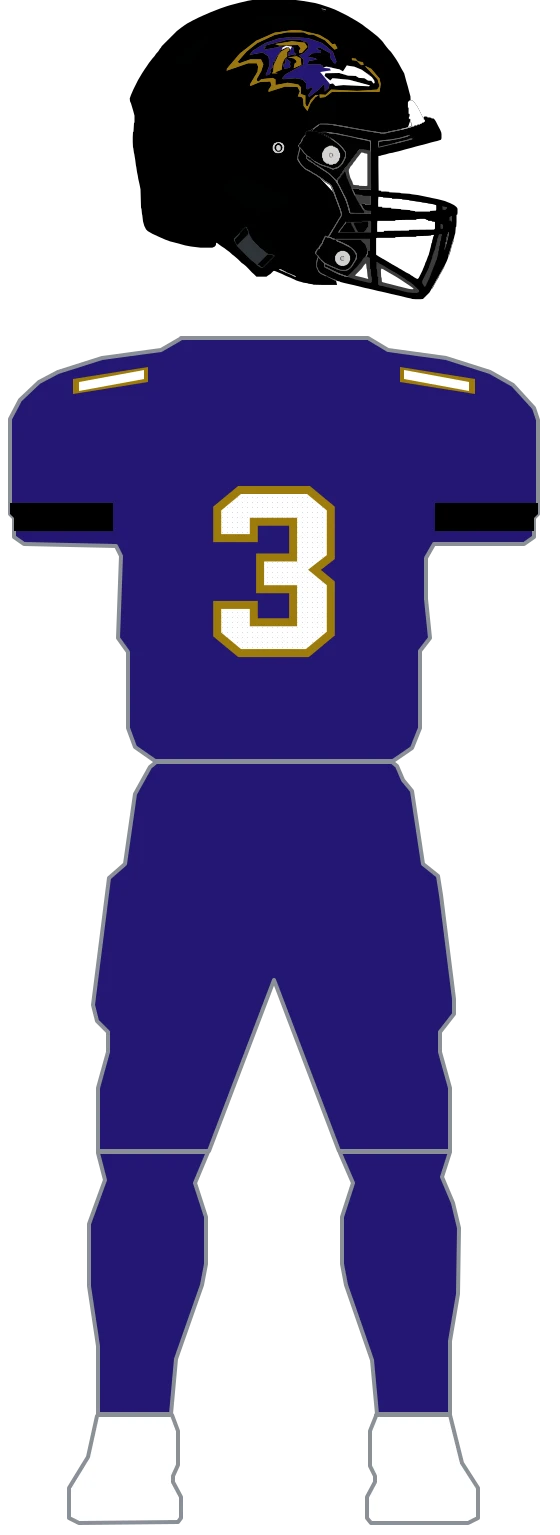
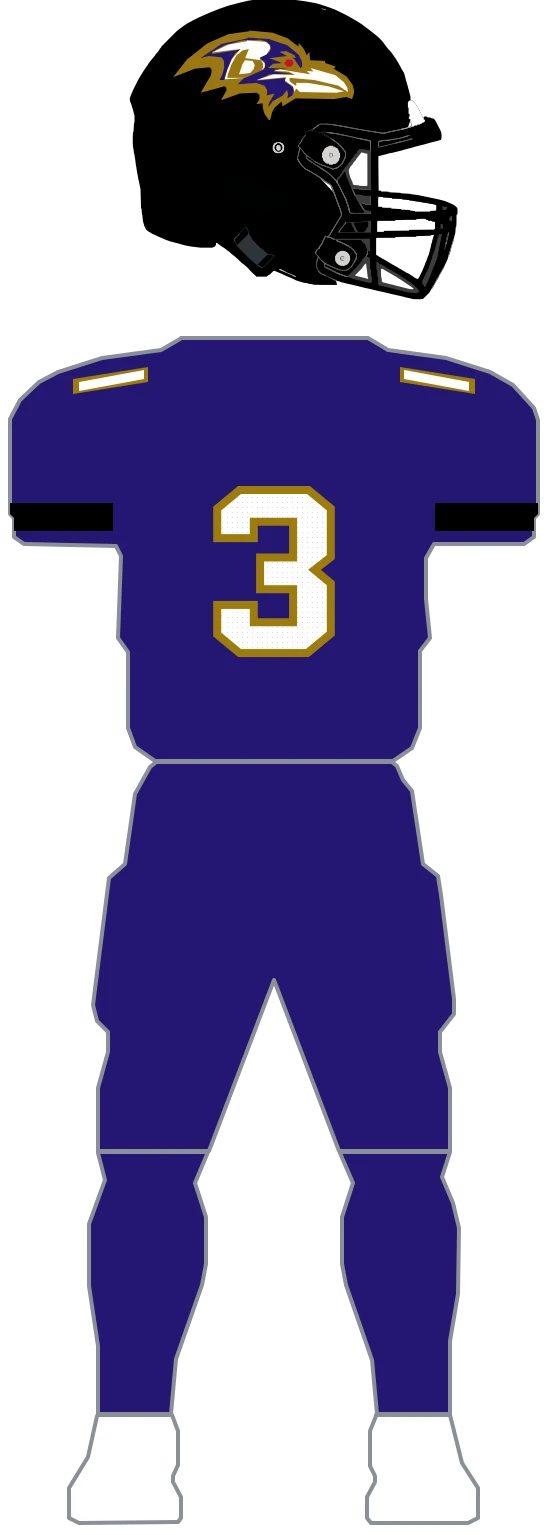
fix(uniforms): re-author Ravens helmet mark

Changed region(s): [[0.3036, 0.0, 0.6679, 0.0919]]

diff --git a/lib/uniforms/teams/ravens.ts b/lib/uniforms/teams/ravens.ts
@@ -41,27 +41,15 @@ export const RAVENS_SHOULDER_INNER_RIGHT = 'M489,427 L424,415 L424,424 L489,436 
 export const RAVENS_SLEEVE_BAND_LEFT = 'M30,548 H133 V576 H30 Z';
 export const RAVENS_SLEEVE_BAND_RIGHT = 'M558,548 H455 V576 H558 Z';
 
-// Provenance: contour trace of the club's mark from the GUD composite — a reproduction
-// of a third-party mark, not original geometry. The mark is NON-FREE upstream
-// (Wikimedia `File:Baltimore Ravens logo.svg`, fair use; trademarked). Licence audit: the vault’s
-// Decisions.md, 2026-09-03.
-//
-// The raven head, traced from the home figure's shell (bbox x30-173, y27-144 in the reference)
-// mapped onto the raw helmet space at ~6.25x. Four plain-union fills in paint order: gold keyline,
-// purple head, gold "B", white beak.
-//
-// This module previously called the mark untraceable, reasoning that a two-px gold keyline is the
-// same sub-3px stroke detail that shredded the Falcons falcon. That reasoning had the right premise
-// and the wrong conclusion. The keyline is indeed too thin to trace AS A STROKE — but it never had
-// to be one. Traced as the FILLED SILHOUETTE of the whole mark and painted under the purple, the
-// keyline is whatever gold shows past the purple's edge, which is exactly the two px it should be
-// and needs no stroke at all. The general rule: an outline that is too thin to trace directly is
-// usually a filled shape one layer down.
-export const RAVENS_DECAL_KEYLINE_PATH =
-  'M460.1,141.8 L496.0,144.4 L523.8,154.1 L545.3,171.7 L552.2,190.6 L551.1,194.5 L547.6,194.5 L539.5,182.8 L541.2,177.6 L539.5,174.3 L518.6,162.6 L512.2,165.8 L521.5,169.1 L521.5,173.7 L504.7,174.3 L494.8,181.5 L511.1,184.7 L512.8,187.3 L497.2,189.9 L494.3,197.1 L518.6,196.4 L523.8,198.4 L525.6,202.9 L540.0,201.6 L548.2,206.2 L558.6,206.8 L563.8,210.7 L569.0,207.5 L573.1,199.0 L588.7,201.6 L618.3,217.2 L629.3,232.9 L626.4,234.8 L622.3,229.6 L615.4,229.0 L608.4,224.4 L597.4,223.8 L591.0,219.9 L575.4,219.2 L558.0,214.0 L532.5,214.0 L528.5,216.6 L528.5,219.9 L540.0,229.0 L544.7,224.4 L578.3,227.7 L619.4,239.4 L554.5,238.1 L550.5,240.0 L545.3,234.8 L538.9,234.8 L536.6,244.6 L529.0,251.1 L529.0,241.3 L526.1,236.8 L518.6,245.9 L497.7,262.1 L496.0,258.2 L505.3,244.6 L501.2,242.0 L496.0,246.5 L491.9,245.9 L491.4,234.2 L484.4,227.0 L471.1,224.4 L446.2,226.4 L443.8,224.4 L450.8,216.6 L486.1,197.1 L486.7,187.3 L477.5,178.9 L487.3,174.3 L496.0,165.2 L496.6,156.7 L491.4,150.9 L487.3,151.5 L479.8,147.0 L456.0,147.0 L409.1,159.3 L406.8,163.9 L412.0,160.6 L406.2,167.8 L438.0,161.9 L435.7,160.6 L446.2,161.9 L459.5,159.3 L467.0,163.9 L468.2,175.0 L472.2,175.6 L469.9,178.9 L463.5,176.9 L456.6,180.2 L454.9,173.7 L458.3,173.0 L461.2,167.8 L457.2,162.6 L440.4,167.8 L439.8,172.4 L430.5,184.7 L428.8,192.5 L425.9,191.2 L424.7,203.6 L421.2,205.5 L419.5,210.1 L421.2,212.7 L417.2,217.9 L410.8,218.6 L417.8,200.3 L417.2,183.4 L414.9,179.5 L404.4,173.0 L378.9,177.6 L384.7,169.8 L410.2,154.1 L436.9,145.0 L459.5,142.4 Z M460.6,128.1 L480.9,128.8 L518.6,137.9 L536.0,148.3 L544.1,156.7 L549.3,155.4 L554.5,164.5 L548.7,167.2 L529.0,148.3 L505.9,137.2 L496.6,137.2 L486.1,132.7 L453.1,132.7 L428.8,137.9 L394.0,154.1 L372.6,171.1 L354.6,191.9 L358.6,194.5 L380.1,186.7 L401.5,186.7 L406.2,196.4 L402.1,210.1 L392.8,226.4 L394.0,230.3 L396.9,230.9 L402.1,226.4 L425.3,223.8 L430.5,227.0 L430.5,238.1 L454.9,233.5 L475.7,236.8 L481.5,242.6 L481.5,256.3 L490.2,258.9 L490.2,275.2 L492.5,280.4 L495.4,279.7 L501.2,267.3 L510.5,258.2 L516.9,258.2 L509.9,262.8 L500.6,274.5 L494.3,290.1 L486.7,279.7 L485.6,265.4 L482.7,262.1 L475.1,260.8 L479.2,250.4 L474.6,242.0 L449.1,241.3 L416.6,251.7 L416.6,247.8 L422.4,238.7 L420.1,230.9 L399.2,232.2 L380.1,240.0 L379.5,236.8 L394.6,211.4 L395.7,201.0 L392.8,194.5 L376.0,194.5 L332.6,209.4 L333.7,204.9 L359.2,175.0 L391.7,149.6 L428.8,133.3 L460.1,128.8 Z M454.3,163.9 L457.2,164.5 L458.3,168.5 L453.7,171.7 L453.7,181.5 L449.1,184.7 L444.4,194.5 L442.7,207.5 L429.4,212.7 L434.6,214.6 L423.6,214.6 L425.9,211.4 L427.0,198.4 L436.9,177.6 L442.7,170.4 L453.7,164.5 Z M610.8,200.3 L621.8,205.5 L638.6,225.1 L640.9,236.1 L638.6,251.7 L543.5,251.7 L529.6,262.1 L519.2,263.4 L518.6,256.9 L530.8,257.6 L541.8,247.2 L594.5,249.8 L633.9,247.2 L638.6,240.0 L634.5,226.4 L610.2,201.0 Z M461.8,150.2 L489.0,153.5 L494.3,161.9 L483.2,173.7 L478.0,174.3 L477.5,169.1 L480.9,165.2 L475.7,158.0 L437.5,158.7 L429.9,156.1 L461.2,150.9 Z M451.4,184.7 L460.6,191.9 L458.9,196.4 L460.6,200.3 L458.3,203.6 L448.5,205.5 L445.6,198.4 L447.3,194.5 L449.1,196.4 L450.2,194.5 L450.8,185.4 Z M472.2,180.2 L480.9,184.7 L482.1,197.7 L467.0,204.2 L468.8,195.1 L472.8,192.5 L472.2,189.3 L467.0,184.7 L454.9,182.8 L471.7,180.8 Z';
-export const RAVENS_DECAL_HEAD_PATH =
-  'M460.1,141.8 L496.0,144.4 L523.8,154.1 L545.3,171.7 L552.2,190.6 L551.1,194.5 L547.6,194.5 L539.5,182.8 L541.2,177.6 L539.5,174.3 L518.6,162.6 L512.2,165.8 L521.5,169.1 L521.5,173.7 L504.7,174.3 L494.8,181.5 L511.1,184.7 L512.8,187.3 L497.2,189.9 L494.3,197.1 L518.6,196.4 L523.8,198.4 L525.6,202.9 L540.0,201.6 L548.2,206.2 L558.6,206.8 L563.8,210.7 L569.0,207.5 L573.1,199.0 L588.7,201.6 L618.3,217.2 L629.3,232.9 L626.4,234.8 L622.3,229.6 L615.4,229.0 L608.4,224.4 L597.4,223.8 L591.0,219.9 L575.4,219.2 L558.0,214.0 L532.5,214.0 L528.5,216.6 L528.5,219.9 L540.0,229.0 L544.7,224.4 L578.3,227.7 L619.4,239.4 L554.5,238.1 L550.5,240.0 L545.3,234.8 L538.9,234.8 L536.6,244.6 L529.0,251.1 L529.0,241.3 L526.1,236.8 L518.6,245.9 L497.7,262.1 L496.0,258.2 L505.3,244.6 L501.2,242.0 L496.0,246.5 L491.9,245.9 L491.4,234.2 L484.4,227.0 L471.1,224.4 L446.2,226.4 L443.8,224.4 L450.8,216.6 L486.1,197.1 L486.7,187.3 L477.5,178.9 L487.3,174.3 L496.0,165.2 L496.6,156.7 L491.4,150.9 L487.3,151.5 L479.8,147.0 L456.0,147.0 L409.1,159.3 L406.8,163.9 L412.0,160.6 L406.2,167.8 L438.0,161.9 L435.7,160.6 L446.2,161.9 L459.5,159.3 L467.0,163.9 L468.2,175.0 L472.2,175.6 L469.9,178.9 L463.5,176.9 L456.6,180.2 L454.9,173.7 L458.3,173.0 L461.2,167.8 L457.2,162.6 L440.4,167.8 L439.8,172.4 L430.5,184.7 L428.8,192.5 L425.9,191.2 L424.7,203.6 L421.2,205.5 L419.5,210.1 L421.2,212.7 L417.2,217.9 L410.8,218.6 L417.8,200.3 L417.2,183.4 L414.9,179.5 L404.4,173.0 L378.9,177.6 L384.7,169.8 L410.2,154.1 L436.9,145.0 L459.5,142.4 Z M451.4,184.7 L460.6,191.9 L458.9,196.4 L460.6,200.3 L458.3,203.6 L448.5,205.5 L445.6,198.4 L447.3,194.5 L449.1,196.4 L450.2,194.5 L450.8,185.4 Z';
-export const RAVENS_DECAL_LETTER_PATH =
-  'M460.6,128.1 L480.9,128.8 L518.6,137.9 L536.0,148.3 L544.1,156.7 L549.3,155.4 L554.5,164.5 L548.7,167.2 L529.0,148.3 L505.9,137.2 L496.6,137.2 L486.1,132.7 L453.1,132.7 L428.8,137.9 L394.0,154.1 L372.6,171.1 L354.6,191.9 L358.6,194.5 L380.1,186.7 L401.5,186.7 L406.2,196.4 L402.1,210.1 L392.8,226.4 L394.0,230.3 L396.9,230.9 L402.1,226.4 L425.3,223.8 L430.5,227.0 L430.5,238.1 L454.9,233.5 L475.7,236.8 L481.5,242.6 L481.5,256.3 L490.2,258.9 L490.2,275.2 L492.5,280.4 L495.4,279.7 L501.2,267.3 L510.5,258.2 L516.9,258.2 L509.9,262.8 L500.6,274.5 L494.3,290.1 L486.7,279.7 L485.6,265.4 L482.7,262.1 L475.1,260.8 L479.2,250.4 L474.6,242.0 L449.1,241.3 L416.6,251.7 L416.6,247.8 L422.4,238.7 L420.1,230.9 L399.2,232.2 L380.1,240.0 L379.5,236.8 L394.6,211.4 L395.7,201.0 L392.8,194.5 L376.0,194.5 L332.6,209.4 L333.7,204.9 L359.2,175.0 L391.7,149.6 L428.8,133.3 L460.1,128.8 Z M454.3,163.9 L457.2,164.5 L458.3,168.5 L453.7,171.7 L453.7,181.5 L449.1,184.7 L444.4,194.5 L442.7,207.5 L429.4,212.7 L434.6,214.6 L423.6,214.6 L425.9,211.4 L427.0,198.4 L436.9,177.6 L442.7,170.4 L453.7,164.5 Z M610.8,200.3 L621.8,205.5 L638.6,225.1 L640.9,236.1 L638.6,251.7 L543.5,251.7 L529.6,262.1 L519.2,263.4 L518.6,256.9 L530.8,257.6 L541.8,247.2 L594.5,249.8 L633.9,247.2 L638.6,240.0 L634.5,226.4 L610.2,201.0 Z M461.8,150.2 L489.0,153.5 L494.3,161.9 L483.2,173.7 L478.0,174.3 L477.5,169.1 L480.9,165.2 L475.7,158.0 L437.5,158.7 L429.9,156.1 L461.2,150.9 Z M472.2,180.2 L480.9,184.7 L482.1,197.7 L467.0,204.2 L468.8,195.1 L472.8,192.5 L472.2,189.3 L467.0,184.7 L454.9,182.8 L471.7,180.8 Z M583.5,184.1 L590.5,184.7 L595.1,189.9 L605.5,192.5 L607.3,197.7 L601.5,198.4 L592.8,189.9 L583.5,188.6 L582.9,184.7 Z';
-export const RAVENS_DECAL_BEAK_PATH =
-  'M573.1,199.0 L588.7,201.6 L603.2,207.5 L623.5,222.5 L628.1,229.0 L628.7,234.2 L626.4,234.8 L622.3,229.6 L615.4,229.0 L608.4,224.4 L597.4,223.8 L591.0,219.9 L575.4,219.2 L558.0,214.0 L530.2,214.6 L528.5,219.9 L540.0,229.0 L544.7,224.4 L578.3,227.7 L619.4,238.7 L617.7,240.7 L566.1,238.1 L550.5,240.0 L545.3,234.8 L539.5,236.1 L519.8,212.0 L541.2,208.8 L538.9,204.9 L526.1,203.6 L531.9,201.0 L558.6,206.8 L565.5,210.7 L572.5,199.7 Z M451.4,159.3 L463.5,161.3 L460.1,167.2 L457.2,162.6 L452.5,162.6 L442.7,167.8 L445.0,162.6 L450.8,160.0 Z';
+// The generator traces the approved standalone Ravens mark rather than the tiny GUD decal. The
+// SVG is non-free/fair-use artwork from Wikimedia's `File:Baltimore Ravens logo.svg`; its black
+// gaps are shell-colored and therefore intentionally omitted from the layer stack. Placement was
+// measured from the GUD 2025 helmet: visible mark x=15.4..79.8%, y=11.2..42.8% of the shell.
+export const RAVENS_DECAL_GOLD_PATH =
+  'M378.1,129.1 L424.3,133.3 L454.6,144.6 L475.2,160.2 L477.0,160.2 L476.8,154.5 L477.9,154.5 L488.1,167.3 L492.9,178.6 L498.2,171.5 L499.8,188.5 L529.1,189.9 L530.2,194.1 L551.0,201.2 L546.8,205.4 L572.9,221.0 L584.8,237.9 L587.4,247.8 L587.4,254.9 L583.7,266.2 L571.6,261.9 L548.3,266.2 L470.5,264.8 L445.4,280.3 L444.3,280.3 L443.5,271.8 L442.0,271.8 L428.8,283.1 L423.5,293.0 L420.1,307.2 L417.4,308.6 L407.9,294.5 L405.0,283.1 L404.7,274.7 L392.3,276.1 L397.8,267.6 L398.6,261.9 L398.2,257.7 L392.9,253.5 L359.3,254.9 L324.0,267.6 L321.8,267.6 L332.3,249.2 L332.6,246.4 L331.5,242.2 L328.1,240.7 L280.9,253.5 L301.5,218.1 L302.8,208.2 L299.3,202.6 L269.2,205.4 L225.7,222.4 L253.5,187.0 L294.4,154.5 L336.4,136.2 L378.0,130.5 Z M373.6,167.3 L377.3,167.3 L369.9,185.6 L398.9,188.5 L404.0,192.7 L406.0,199.8 L403.7,206.8 L372.0,222.4 L334.3,222.4 L342.4,198.4 L351.4,181.4 L362.2,171.5 L373.5,168.7 Z M373.0,153.1 L399.7,153.1 L415.0,158.8 L417.1,164.4 L414.3,171.5 L398.1,181.4 L388.6,182.8 L399.2,172.9 L399.2,167.3 L394.1,161.6 L317.3,168.7 L372.8,154.5 Z';
+export const RAVENS_DECAL_PURPLE_PATH =
+  'M374.9,143.2 L417.6,146.1 L454.6,158.8 L476.6,177.2 L482.9,189.9 L484.2,201.2 L480.5,204.0 L467.5,185.6 L461.0,182.8 L471.2,184.2 L468.3,178.6 L451.7,170.1 L438.3,171.5 L453.6,180.0 L417.9,184.2 L443.6,194.1 L425.6,195.5 L415.5,204.0 L455.2,205.4 L430.0,206.8 L427.4,211.1 L466.2,215.3 L418.2,216.7 L392.3,229.4 L451.5,223.8 L449.1,225.2 L449.3,230.9 L465.0,242.2 L467.3,250.6 L463.9,259.1 L454.3,264.8 L455.6,256.3 L453.6,247.8 L444.9,259.1 L424.6,270.4 L417.2,281.7 L416.6,277.5 L417.9,273.3 L428.8,254.9 L412.7,259.1 L413.9,253.5 L413.5,247.8 L408.4,239.3 L391.2,233.7 L355.3,236.5 L366.2,225.2 L407.6,206.8 L409.7,199.8 L408.9,192.7 L399.5,184.2 L419.0,171.5 L420.5,167.3 L420.5,160.2 L413.9,151.7 L400.2,147.5 L362.7,148.9 L327.4,158.8 L304.1,171.5 L303.3,175.7 L304.9,175.7 L360.3,167.3 L350.1,174.3 L341.3,188.5 L329.0,222.4 L328.6,228.0 L330.6,228.0 L318.6,228.0 L324.9,215.3 L327.9,202.6 L327.4,189.9 L322.9,182.8 L297.0,180.0 L280.3,184.2 L322.3,156.0 L374.7,144.6 Z M370.9,192.7 L378.0,195.5 L380.1,198.4 L380.1,204.0 L378.9,205.4 L378.6,208.2 L379.4,209.7 L374.7,212.5 L362.4,213.9 L365.9,201.2 L370.7,194.1 Z M382.8,167.3 L388.3,170.1 L389.2,171.5 L389.2,175.7 L386.2,181.4 L376.0,182.8 L374.9,181.4 L377.6,174.3 L382.6,168.7 Z';
+export const RAVENS_DECAL_WHITE_PATH =
+  'M500.1,204.0 L549.6,218.1 L567.3,232.3 L574.2,243.6 L575.5,252.1 L556.2,239.3 L508.0,228.0 L459.4,223.8 L458.3,225.2 L458.4,229.4 L462.3,233.7 L471.2,239.3 L472.5,237.9 L471.6,233.7 L494.2,233.7 L536.7,240.7 L567.4,250.6 L552.1,253.5 L479.2,252.1 L472.3,245.0 L467.5,252.1 L467.3,246.4 L465.4,240.7 L449.4,229.4 L451.8,222.4 L392.8,228.0 L426.7,216.7 L469.9,218.1 L456.5,211.1 L427.7,209.7 L439.9,206.8 L500.0,216.7 L492.9,209.7 L506.4,211.1 L500.3,204.0 Z M373.6,148.9 L410.5,151.7 L418.2,157.4 L420.3,164.4 L412.4,177.2 L399.1,182.8 L399.7,187.0 L408.6,194.1 L409.2,198.4 L408.7,202.6 L405.0,206.8 L403.9,206.8 L405.8,202.6 L405.8,195.5 L401.3,188.5 L369.9,184.2 L377.3,165.8 L364.9,168.7 L352.5,178.6 L342.4,196.9 L334.8,218.1 L334.3,223.8 L369.8,223.8 L328.9,226.6 L334.5,206.8 L343.7,185.6 L360.7,165.8 L304.4,172.9 L335.5,157.4 L373.5,150.3 Z M368.8,188.5 L384.9,189.9 L389.1,198.4 L386.5,206.8 L379.7,213.9 L357.5,216.7 L364.8,195.5 L368.6,189.9 Z M455.2,188.5 L460.9,188.5 L454.7,191.3 L454.3,196.9 L456.0,199.8 L450.9,194.1 L455.1,189.9 Z';
+export const RAVENS_DECAL_EYE_PATH =
+  'M452.7,187.0 L462.3,187.0 L466.0,191.3 L466.2,195.5 L462.3,201.2 L452.5,201.2 L448.3,194.1 L452.5,188.5 Z';

diff --git a/lib/uniforms/teams/ravens.parts.ts b/lib/uniforms/teams/ravens.parts.ts
@@ -6,7 +6,7 @@
 // raven head, a short tilted gold-keyline bar on each shoulder cap, a solid band filling the last
 // third of each sleeve, and trimmed numerals. No helmet stripe, no collar trim, no pant stripe.
 //
-// The measured target is 1 helmet / 3 jersey / 1 pants, and that is what this factors to. The
+// The measured target is 1 helmet / 3 jersey / 3 pants after enumerating the GUD options. The
 // single helmet is the whole point of the model here: the shell is black with the same four-layer
 // mark on every kit, but the flat definition reached it three different ways — `secondary` at
 // home, a literal away, and the implicit `primary` on the black alternate — because black moves
@@ -19,10 +19,10 @@
 // would repaint the mark.
 
 import {
-  RAVENS_DECAL_BEAK_PATH,
-  RAVENS_DECAL_HEAD_PATH,
-  RAVENS_DECAL_KEYLINE_PATH,
-  RAVENS_DECAL_LETTER_PATH,
+  RAVENS_DECAL_EYE_PATH,
+  RAVENS_DECAL_GOLD_PATH,
+  RAVENS_DECAL_PURPLE_PATH,
+  RAVENS_DECAL_WHITE_PATH,
   RAVENS_SHOULDER_INNER_LEFT,
   RAVENS_SHOULDER_INNER_RIGHT,
   RAVENS_SHOULDER_OUTER_LEFT,
@@ -33,15 +33,16 @@ import {
 import { compileParts, type PartLayer, type TeamPartsDefinition, type UniformPart } from './parts';
 import type { UniformSurface } from './types';
 
-// The raven head: gold keyline, purple head, gold "B", white beak, in that paint order. Fixed art
-// on every shell the club wears, so nothing here varies by kit.
+// The raven head: gold silhouette, purple head, white details, then the red eye. Black gaps are
+// supplied by the shell, matching the source mark's negative space. Fixed art on every shell the
+// club wears, so nothing here varies by kit.
 function decal(): PartLayer[] {
   return (
     [
-      ['ravens-decal-keyline', RAVENS_DECAL_KEYLINE_PATH, 'decalGold'],
-      ['ravens-decal-head', RAVENS_DECAL_HEAD_PATH, 'purple'],
-      ['ravens-decal-letter', RAVENS_DECAL_LETTER_PATH, 'decalGold'],
-      ['ravens-decal-beak', RAVENS_DECAL_BEAK_PATH, 'white'],
+      ['ravens-decal-gold', RAVENS_DECAL_GOLD_PATH, 'decalGold'],
+      ['ravens-decal-purple', RAVENS_DECAL_PURPLE_PATH, 'purple'],
+      ['ravens-decal-white', RAVENS_DECAL_WHITE_PATH, 'white'],
+      ['ravens-decal-eye', RAVENS_DECAL_EYE_PATH, 'red'],
     ] as [string, string, string][]
   ).map(([id, d, fill]) => ({
     id,
@@ -107,8 +108,11 @@ const JERSEY_BLACK: UniformPart = {
   number: { fill: 'white', outline: 'gold', outlineWidth: 16 },
 };
 
-// The only pants (P1): purple and unbroken on every kit.
+// The GUD composite shows purple, black, and white pants with these jerseys. Purple is canonical
+// because it is the existing raster pairing; the other two remain available options.
 const PANTS_PURPLE: UniformPart = { base: 'purple', layers: [] };
+const PANTS_BLACK: UniformPart = { base: 'black', layers: [] };
+const PANTS_WHITE: UniformPart = { base: 'white', layers: [] };
 
 export const RAVENS_PARTS: TeamPartsDefinition = {
   teamId: 'ravens',
@@ -120,14 +124,15 @@ export const RAVENS_PARTS: TeamPartsDefinition = {
     white: '#FFFFFF',
     gold: '#9E7C0C',
     decalGold: '#9A7611',
+    red: '#C8102E',
   },
   helmets: { black: HELMET_BLACK },
   jerseys: { purple: JERSEY_PURPLE, white: JERSEY_WHITE, black: JERSEY_BLACK },
-  pants: { purple: PANTS_PURPLE },
+  pants: { purple: PANTS_PURPLE, black: PANTS_BLACK, white: PANTS_WHITE },
   kits: {
-    home: { helmet: 'black', jersey: 'purple', pants: 'purple' },
-    away: { helmet: 'black', jersey: 'white', pants: 'purple' },
-    'black-alt': { helmet: 'black', jersey: 'black', pants: 'purple' },
+    home: { helmet: 'black', jersey: 'purple', pants: ['purple', 'black', 'white'] },
+    away: { helmet: 'black', jersey: 'white', pants: ['purple', 'black', 'white'] },
+    'black-alt': { helmet: 'black', jersey: 'black', pants: ['purple', 'black', 'white'] },
   },
 };
 

diff --git a/scripts/uniform-draw/ravens_mark.py b/scripts/uniform-draw/ravens_mark.py
@@ -1,0 +1,150 @@
+"""Regenerates the Baltimore Ravens helmet mark in ``lib/uniforms/teams/ravens.ts``.
+
+    python3 scripts/uniform-draw/ravens_mark.py            # print generated paths
+    python3 scripts/uniform-draw/ravens_mark.py --check    # verify ravens.ts matches
+
+This is a contour trace of the approved standalone club mark, not a trace of the
+low-resolution helmet thumbnail.  The source is Wikimedia's ``File:Baltimore
+Ravens logo.svg`` (non-free/fair-use artwork on en.wikipedia; the trademark and
+licence audit are recorded in the vault's 2026-09-03 Decisions entry).  The
+reference is kept in the sibling ``nfl-uniform-refs`` checkout and is never
+committed here.
+
+Topology, measured from a 2400px true-aspect raster of that SVG before tracing:
+gold is 3 connected components, purple is 3, white is 6 enclosed components,
+and red is 1.  The large white page background is border-connected and discarded;
+the white mark pieces are holes/details, not background.  Black is deliberately
+not emitted: on every Ravens helmet it is the shell colour and therefore supplies
+the mark's negative-space gaps.  The selection trap is the SVG's full lockup: its
+black shell gaps and white page background must not become extra decal layers, and
+the tiny red eye must be selected independently rather than lost in the purple
+head.
+
+Placement is measured only from the GUD 2025 helmet composite.  In the first
+right-facing helmet, the shell is x=56..160, y=28..126 and the visible mark is
+x=72..139, y=39..69: left=15.4%, width=64.4%, top=11.2%, height=31.6% of the
+shell.  Transferred to the raw helmet silhouette x=139..701.5, y=65..637.4,
+that is ``Box(225.7, 129.1, 362.0, 180.9)``.  The mark is allowed to overhang
+inside that measured box only where the shell clip hides the wrapped rear edge;
+no side-seam or leg detail is authored for the front-facing figure.
+
+The SVG is too wide for qlmanage's square-thumbnail behavior, so the generator
+rasterizes it with ImageMagick at its true aspect before handing masks to
+``drawkit.trace``.  No tracing logic is duplicated here: connected components,
+contour simplification, path emission, and ``--check`` all come from drawkit.
+The generated masks were compared in the same normalized art bbox as the source
+and visually checked on the black mannequin shell at final thumbnail size.
+"""
+
+from __future__ import annotations
+
+import subprocess
+import sys
+import tempfile
+from pathlib import Path
+
+from PIL import Image  # noqa: E402
+
+sys.path.insert(0, str(Path(__file__).resolve().parent))
+
+from drawkit import Box, components, main, trace  # noqa: E402
+
+REF = Path.home() / 'Documents/GitHubProjects/nfl-uniform-refs/ravens/ravens-mark.svg'
+MODULE = Path(__file__).resolve().parents[2] / 'lib' / 'uniforms' / 'teams' / 'ravens.ts'
+RENDER_WIDTH = 2400
+EPS = 2.4
+MIN_REGION = 100
+
+BOX = Box(225.7, 129.1, 362.0, 180.9)
+
+PALETTE = {
+    'gold': (154, 118, 17),
+    'purple': (36, 19, 95),
+    'white': (255, 255, 255),
+    'red': (200, 16, 46),
+    'black': (0, 0, 0),
+}
+
+
+def raster():
+    """Rasterize the wide SVG without qlmanage's square crop/letterbox ambiguity."""
+    with tempfile.TemporaryDirectory() as tmp:
+        output = Path(tmp) / 'ravens-mark.png'
+        subprocess.run(
+            [
+                'magick',
+                str(REF),
+                '-background',
+                'white',
+                '-alpha',
+                'remove',
+                '-alpha',
+                'off',
+                '-resize',
+                f'{RENDER_WIDTH}x!',
+                str(output),
+            ],
+            check=True,
+        )
+        return Image.open(output).convert('RGB').copy()
+
+
+def classify(im):
+    """Assign pixels to the nearest source ink, retaining antialiased edges."""
+    px = im.load()
+    labels = []
+    for y in range(im.height):
+        row = []
+        for x in range(im.width):
+            color = px[x, y]
+            row.append(
+                min(
+                    PALETTE,
+                    key=lambda name: sum(
+                        (color[i] - PALETTE[name][i]) ** 2 for i in range(3)
+                    ),
+                )
+            )
+        labels.append(row)
+    return labels
+
+
+def ink_mask(labels, name):
+    """Keep non-border-connected regions of one ink, excluding page background."""
+    h, w = len(labels), len(labels[0])
+    raw = [[1 if labels[y][x] == name else 0 for x in range(w)] for y in range(h)]
+    kept = []
+    for region in components(raw, w, h, MIN_REGION):
+        if any(x in (0, w - 1) or y in (0, h - 1) for x, y in region):
+            continue
+        kept.extend(region)
+    cells = set(kept)
+    return [[1 if (x, y) in cells else 0 for x in range(w)] for y in range(h)]
+
+
+def build():
+    labels = classify(raster())
+    height, width = len(labels), len(labels[0])
+    art = [
+        (x, y)
+        for y, row in enumerate(labels)
+        for x, name in enumerate(row)
+        if name != 'white'
+    ]
+    x0, y0 = min(x for x, _ in art), min(y for _, y in art)
+    x1, y1 = max(x for x, _ in art) + 1, max(y for _, y in art) + 1
+
+    def crop(mask):
+        return [row[x0:x1] for row in mask[y0:y1]]
+
+    art_width, art_height = x1 - x0, y1 - y0
+    return {
+        'RAVENS_DECAL_GOLD_PATH': trace(crop(ink_mask(labels, 'gold')), art_width, art_height, BOX, eps=EPS, minsize=MIN_REGION, space='image'),
+        'RAVENS_DECAL_PURPLE_PATH': trace(crop(ink_mask(labels, 'purple')), art_width, art_height, BOX, eps=EPS, minsize=MIN_REGION, space='image'),
+        'RAVENS_DECAL_WHITE_PATH': trace(crop(ink_mask(labels, 'white')), art_width, art_height, BOX, eps=EPS, minsize=MIN_REGION, space='image'),
+        'RAVENS_DECAL_EYE_PATH': trace(crop(ink_mask(labels, 'red')), art_width, art_height, BOX, eps=EPS, minsize=MIN_REGION, space='image'),
+    }
+
+
+if __name__ == '__main__':
+    main(build, MODULE)
